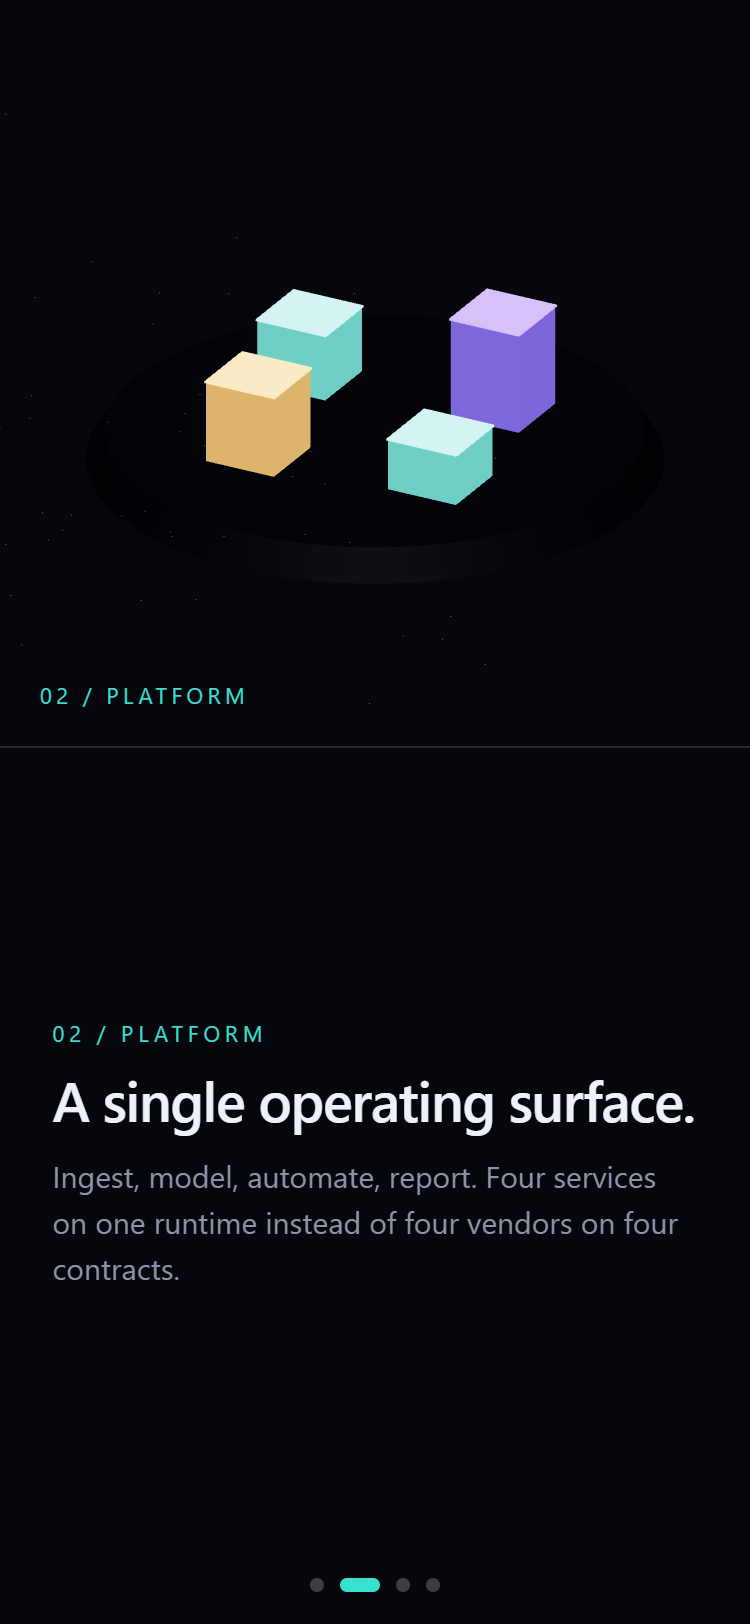
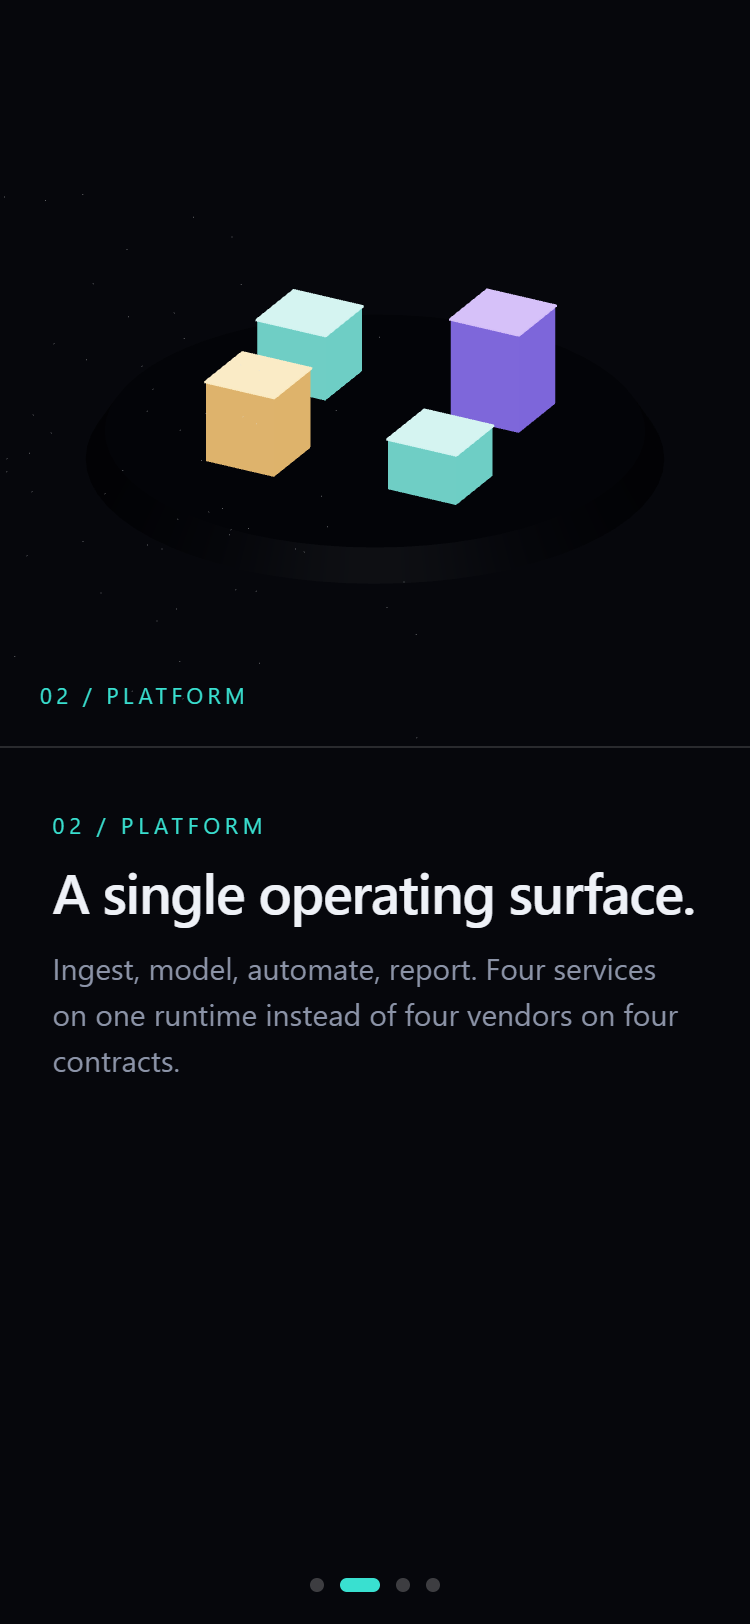
Top-align mobile card copy instead of centering it
.snap-card centered its content vertically, which at 812px left a wide gap
between the isometric stage and the eyebrow while the copy floated mid-card.
Top-align it and even out the padding so the text starts just under the stage
divider; the remaining slack falls below the copy, where the dots anchor it.

Changed region(s): [[0.0613, 0.4926, 0.92, 0.8005]]

diff --git a/src/styles/main.css b/src/styles/main.css
@@ -274,8 +274,8 @@ html[data-mode="mobile"] #mobile-root {
   scroll-snap-stop: always;
   display: flex;
   flex-direction: column;
-  justify-content: center;
-  padding: 24px clamp(20px, 7vw, 40px) 32px;
+  justify-content: flex-start;
+  padding: 30px clamp(20px, 7vw, 40px) 28px;
 }
 
 .snap-card__eyebrow {
